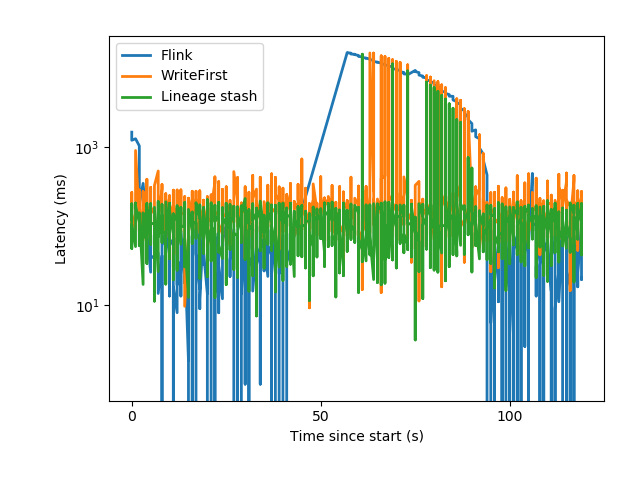
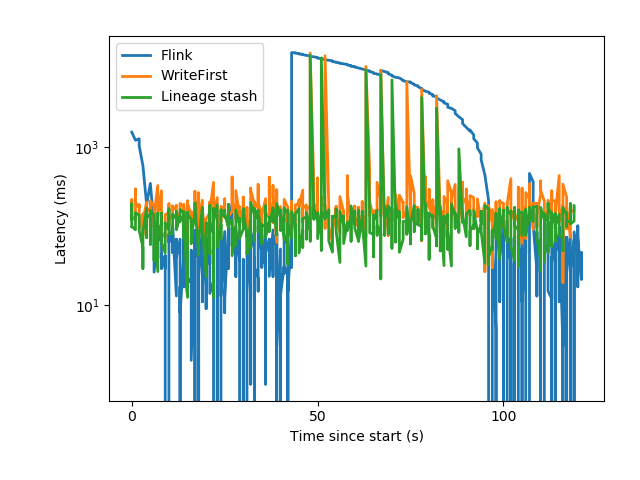
Fix plotting scripts for latency in streaming recovery experiment: - downsample all runs by the same amount - print latency vs record timestamp instead of latency vs current time

Changed region(s): [[0.1875, 0.0938, 0.9375, 0.875], [0.4688, 0.8438, 0.5312, 0.875]]

diff --git a/data/streaming/plot_recovery.py b/data/streaming/plot_recovery.py
@@ -6,7 +6,7 @@ import matplotlib.pyplot as plt
 from collections import defaultdict
 
 
-def parse_latencies(filename, flink, downsample_factor):
+def parse_latencies(filename, flink):
     operator = None
     points = []
     first_timestamp = None
@@ -20,7 +20,7 @@ def parse_latencies(filename, flink, downsample_factor):
 
             if operator is None:
                 operator = row['sink_id']
-                first_timestamp = float(row['cur_time'])
+                first_timestamp = float(row['timestamp'])
                 max_timestamp = record_timestamp
 
 
@@ -35,7 +35,7 @@ def parse_latencies(filename, flink, downsample_factor):
                         continue
 
                 latency = float(row['latency'])
-                current_time = float(row['cur_time'])
+                current_time = record_timestamp
                 current_time -= first_timestamp
                 if in_seconds:
                     latency *= 1000
@@ -45,8 +45,7 @@ def parse_latencies(filename, flink, downsample_factor):
                 points.append((current_time, latency))
             else:
                 break
-    # Downsample.
-    points = [points[i] for i in range(0, len(points), downsample_factor)]
+    points.sort(key=lambda item: item[0])
     return points
 
 def parse_throughputs(filename):
@@ -158,7 +157,7 @@ def mean_failure_latency(latencies):
             failure_latencies.append(latency)
     return np.mean(failure_latencies)
 
-def main(directory, save_filename):
+def main(directory, save_filename, global_downsample):
     flink_filename = None
     lineage_stash_filename = None
     writefirst_filename = None
@@ -181,30 +180,37 @@ def main(directory, save_filename):
         ('Flink',
         flink_filename,
         flink_throughput_filename,
-        True,
-        10),
+        True),
         ('WriteFirst',
         writefirst_filename,
         writefirst_throughput_filename,
-        False,
-        10),
+        False),
         ('Lineage stash',
         lineage_stash_filename,
         lineage_stash_throughput_filename,
-        False,
-        10),
+        False),
     ]
     stats = []
-    for label, latency_filename, throughput_filename, is_flink, downsample in FILENAMES:
-        latencies = parse_latencies(latency_filename, is_flink, downsample)
+    for label, latency_filename, throughput_filename, is_flink in FILENAMES:
+        latencies = parse_latencies(latency_filename, is_flink)
+        print(label, len(latencies), "latency samples")
         throughputs = parse_throughputs(throughput_filename)
         stats.append((label, latencies, throughputs))
+
+    # Downsample so that all jobs have the same number of latency samples.
+    min_latency_samples = min(len(latencies) for _, latencies, _ in stats)
+    for i, stat in enumerate(stats):
+        label, latencies, throughputs = stat
+        downsample_factor = len(latencies) // min_latency_samples * global_downsample
+        latencies = [latencies[i] for i in range(0, len(latencies), downsample_factor)]
+        stats[i] = (label, latencies, throughputs)
+        print("Downsampled", label, "by", downsample_factor, "to", len(latencies), "records")
 
     plot_latencies(stats, save_filename)
     plot_throughputs(stats, save_filename)
 
     for label, latency, _ in stats:
-        print(label, mean_failure_latency(latency))
+        print(label, "mean latency during recovery:", mean_failure_latency(latency))
 
 
 if __name__ == '__main__':
@@ -215,9 +221,14 @@ if __name__ == '__main__':
             type=str,
             default='32-workers')
     parser.add_argument(
+            '--downsample',
+            type=int,
+            default=10,
+            help="The amount to downsample all latency samples by.")
+    parser.add_argument(
             '--save-filename',
             type=str,
             default=None)
     args = parser.parse_args()
 
-    main(args.directory, args.save_filename)
+    main(args.directory, args.save_filename, args.downsample)
